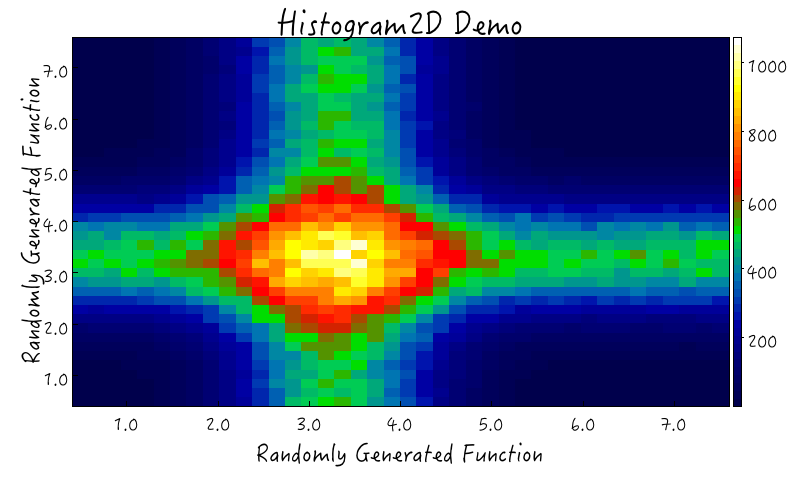
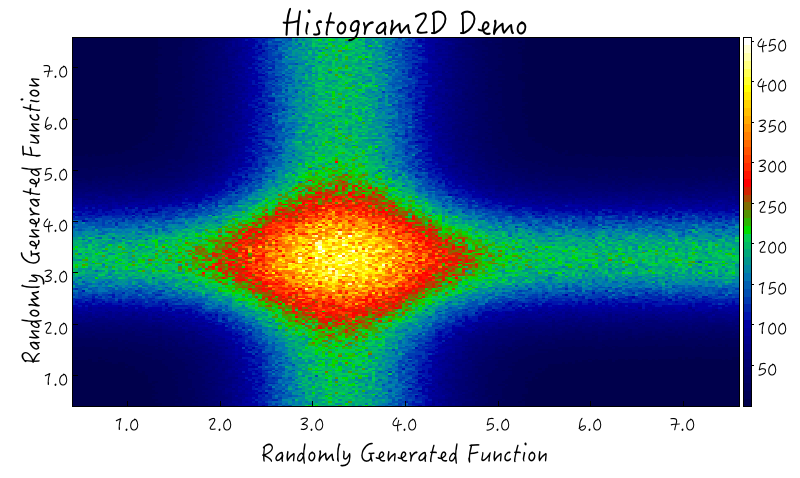
updated Histogram2d demo and images

diff --git a/src/main/java/org/jlab/groot/demo/BasicDemo3.java b/src/main/java/org/jlab/groot/demo/BasicDemo3.java
@@ -15,7 +15,7 @@ public class BasicDemo3 {
         JFrame frame = new JFrame("Basic GROOT Demo");
         EmbeddedCanvas canvas = new EmbeddedCanvas();
         frame.setSize(800,500);
-        H2F histogram2d = FunctionFactory.randomGausian2D(40, 0.4, 7.6, 800000, 3.3, 0.8);
+        H2F histogram2d = FunctionFactory.randomGausian2D(200, 0.4, 7.6, 8000000, 3.3, 0.8);
         histogram2d.setTitleX("Randomly Generated Function");
         histogram2d.setTitleY("Randomly Generated Function");
         canvas.getPad(0).setTitle("Histogram2D Demo");
